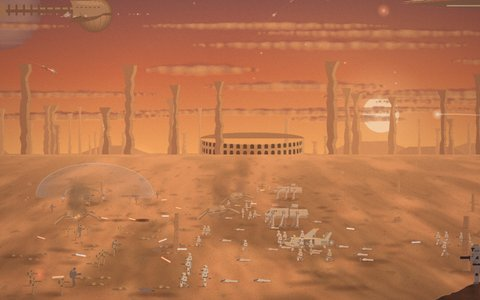
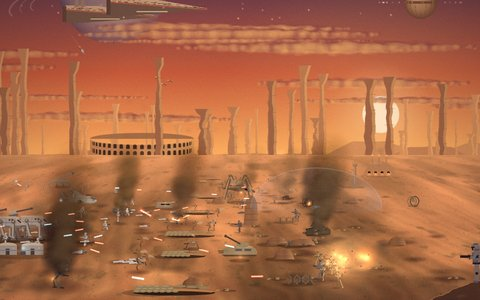
feat(saber-front): real Clone Wars battles, terrain, armour and facilities
Eight battles (Geonosis, Christophsis, Felucia, Umbara, Kamino, Ryloth,
Kashyyyk, the Invisible Hand's hangar) with their legions, Jedi and
commanders; hills, trenches and cover the troops use; posts, bunkers,
towers and batteries that fall and are rebuilt; AT-TEs, AATs, Saber
tanks, BARCs, spider droids, MTTs and SPHA-Ts; jump troopers, ARCs,
droidekas, MagnaGuards, Wookiees and Geonosians. Map labels no longer
overlap or run off the table; the ridge and hangar bakes no longer
need Path2D. Seed grid, map and thumbnail refreshed.

Claude-Session: https://claude.ai/code/session_01DAYW2L79kq4VRcM5v1YgzQ

diff --git a/src/engine/skins/worlds/saber-front/sim.ts b/src/engine/skins/worlds/saber-front/sim.ts
@@ -1,55 +1,59 @@
 /**
- * # Saber Front: a ground battle of the galactic civil war, seen from a ridge as a wide diorama.
+ * # Saber Front: the ground battles of the Clone Wars, each seen from a ridge as a wide diorama.
  *
- * On screen, at a glance: two lines of infantry trading coloured bolts across a strip of open
- * ground (the Grand Army's troopers in white armour with their legion's markings, firing blue; the
- * Confederacy's tan battle droids in ranks, firing red); six-legged assault walkers and spider
- * walkers laying their big guns; troop gunships with bubble turrets coming in low to drop squads;
- * starfighters dogfighting overhead; artillery arcing across; smoke and fire everywhere; wedge
- * cruisers and long-spined frigates hanging in the sky.
- * The camera: on a ridge above the field, the whole battle laid out below, the sky above it.
+ * On screen, at a glance: the Grand Army of the Republic's clone troopers (their legion's colours:
+ * the 501st's blue, the 212th's orange, the 327th's gold) behind sandbags, trenches and plasteel
+ * barricades, trading blue bolts with ranks of tan B1 battle droids, B2 super battle droids and BX
+ * commandos behind their tank traps; AT-TEs and homing spider droids duelling with their main guns;
+ * TX-130 saber tanks against AATs; AT-RTs and dwarf spider droids skirmishing; LAAT gunships with their
+ * bubble turrets dropping squads; C-9979 landers and MTTs unloading droids; hailfire droids firing
+ * rockets at the gunships; SPHA-Ts throwing their great red beams into the sky; ARC-170s and vulture
+ * droids dogfighting overhead; Venators against Munificents, Providences and core ships in the sky.
+ * The Republic's forward command post and bunker behind one line, the Separatist command tower and
+ * anti-air battery (and on Geonosis the droid foundry) behind the other; rises and rocks in between.
+ * The camera: on a ridge (or a catwalk aboard ship) above the field, the whole battle laid out below.
+ *
+ * The battles (one per seed, each with two hours, its own Jedi, legions, leaders, ships and machines):
+ * - The First Battle of Geonosis: the arena and the spire fields at sunset; core ships; Geonosian
+ *   warriors swarming from the spires; SPHA-Ts; Mace Windu, Yoda, Ki-Adi-Mundi; Count Dooku.
+ * - Christophsis: the crystal city by night; the Separatist shield; Anakin, Obi-Wan, Ahsoka; Ventress.
+ * - Felucia: the fungus plains; Aayla Secura and the 327th; crab droids.
+ * - Umbara: the dark jungle lit by tracer fire and glowing plants; the 501st.
+ * - Kamino: Tipoca City's platforms in the storm; trident drill ships rising from the sea.
+ * - Ryloth: the plain below Lessu; Cham Syndulla's Twi'lek fighters beside the clones.
+ * - Kashyyyk: the beach under the wroshyr trees; Yoda, Luminara, the 41st; Wookiee warriors.
+ * - Coruscant: aboard the Invisible Hand, in her hangar; Grievous and his MagnaGuards; the space
+ *   battle through the hangar's mouth, Coruscant below.
  *
  * Always happening (the floor):
- * - Infantry: both lines fire on cooldowns; bolts fly; men and droids fall (and lie where they
- *   fell for a while); squads move up and fall back with the front.
- * - Reinforcements: gunships bring squads (descend, doors open, troopers jump down, then a strafing
- *   run over the droid line); the Confederacy's landers set down columns of droids; a short line
- *   marches in from the edge when nothing can fly.
- * - Walkers advance with the front and duel with their main guns; a hurt one smokes, and falls.
- *   A carrier gunship sets a new one down; a new spider walks in from the rear.
- * - Artillery from both rear lines; starfighters in looping dogfights, one going down in flames;
- *   flights crossing; capital ships hanging in the sky.
- * - The tide: the front moves with the strength of the lines and a slow swell; at its limits one
- *   side breaks and falls back, then regroups. It never ends.
+ * - Infantry fight from cover (fewer hits; troopers take a knee behind low walls), on the rises,
+ *   and in the open when they move; men and droids fall and lie where they fell for a while.
+ * - Reinforcements: gunships bring squads and strafe the droid line; landers and MTTs bring
+ *   droids (through the blast doors aboard ship); a line marches in from the edge when nothing flies.
+ * - Walkers, tanks, scout walkers and war droids hold places behind their lines and fight; the
+ *   ones knocked out burn where they fell, and new ones come. Artillery from both rear lines;
+ *   a bunker's gun, an anti-air battery's flak; dogfights and flights overhead; capital ships.
+ * - The tide: the front moves with the strength of the lines; at its limits a side breaks and
+ *   falls back, then regroups. It never ends.
  *
- * The cast (each seed draws some):
- * - knights [hero] a knight with a light-blade in the line, turning bolts back on the droids;
- *   leads charges across the open ground.
- * - duelist [hero, rare] the Confederacy's blade-master comes out to meet the knight; they duel in
- *   no-man's-land, and the duelist withdraws (requires knights).
- * - rollers [threat] shield droids roll in, unfold behind their bubble shields and pour fire in.
- * - spiders [threat] a second spider walker; the droids' guns are heavier.
- * - shield [objective] a dome shield over the Confederacy's rear; commandos creep along the near
- *   ground to its generator, and it goes down (a barrage follows); a lander brings a new one.
- * - broadside [sky] a capital ship opens its broadside on the enemy ship or the far ground.
- * - descent [sky] a cruiser comes down through the clouds and launches fighters, then climbs.
- * - bombers [air] a bomber flight lays a line of bombs across the enemy ranks.
- * - storm [weather] the field's own weather: a sandstorm, a downpour, the storm breaking.
- * - flares [weather] illumination flares drift down over a night field and light it.
- * Quotas: 4–6 in all; 0–2 hero; 1–2 sky; 0–1 weather.
+ * The story (the director, in engagements): a build-up (the attacker brings in a drop or a
+ * landing), the clash, a climax drawn from what this battle has (a Jedi's charge; the shield
+ * generator blown by commandos; a Venator's descent; a bombing run; a wave of gunships; an AT-TE
+ * push; saber tanks spearheading; BARC speeders down the flank; jump troopers over the top; all guns
+ * on the command tower; a barrage; MTTs at the line; AATs advancing; a Geonosian swarm; trident
+ * ships; MagnaGuards; droidekas; rarely a duel (Grievous, Ventress or Dooku against a Jedi) or a
+ * capital ship (on Geonosis a core ship, to the SPHA-Ts) brought down), and an aftermath (the
+ * loser falls back, the winner plants its standard, the barricades are put back).
  *
- * Events, common to legendary (each a line said on the map):
- * - common: a squad dropped, a lander unloading, a shell landing, a fighter shot down, radio lines.
- * - uncommon: a walker falls, a gunship is shot down, a charge, a retreat and a regroup, a broadside.
- * - rare: the shield goes down, a cruiser's descent, a bomber run.
- * - legendary: the duel in no-man's-land.
+ * The cast (each seed draws some): the Jedi [hero], the duelist [hero, legendary], droidekas
+ * [threat], extra spider droids [threat], the shield generator [objective], broadsides and a
+ * Venator's descent [sky], bombing runs [air], the field's storm and illumination flares [weather].
  *
- * What keeps it going: every loss is replaced, from the drop ships and the landers and from the
- * edge; the front swings with the strength of the lines, and whoever is pushed back regroups.
- * What changes with the seed: the battlefield (arena plains, crystal city, night jungle, ocean
- * platform, walled canyon) and its hour; the legion and its colour; which side holds the left;
- * the cast; the names of every squad, walker, gunship and ship.
- * A touch: marks the ground for the cruiser's guns: a strike comes down where you click.
+ * What keeps it going: every loss is replaced; facilities that fall are rebuilt in time; the
+ * marks stay (scorches, wrecks, standards, ruins, a fallen capital ship's hulk on the horizon).
+ * What changes with the seed: the battle and its hour, the legion, which side holds the left, the
+ * lay of the ground (rises, trenches, rocks), the works, the cast, the machines, the names.
+ * A touch: marks the ground for a Venator's guns; a strike comes down where you click.
  * Phone: the same battle, smaller: fewer men a side, one walker each, two dogfights.
  */
 import { createBus } from '../../../sim/bus';

diff --git a/src/engine/skins/worlds/saber-front/scene.ts b/src/engine/skins/worlds/saber-front/scene.ts
@@ -1153,15 +1153,20 @@ export function bakeRidge(world: SaberWorld, E: Env, side: number, seed: number)
   const L = E.L;
   const rock = mix(mix(L.ground, L.ink, 0.62), '#1a1614', 0.3);
   const litC = mix(mix(L.ground2, L.sun, 0.3), L.ink, 0.25 + L.night * 0.4);
-  const path = new Path2D();
-  path.moveTo(-10, GH + 10);
-  for (let x = -10; x <= GW + 10; x += 4) path.lineTo(x, ridgeTop(world, x, side, seed));
-  path.lineTo(GW + 10, GH + 10);
-  path.closePath();
+  // Traced afresh for each fill and clip rather than kept as a Path2D (absent from test canvases).
+  const outline = () => {
+    g.beginPath();
+    g.moveTo(-10, GH + 10);
+    for (let x = -10; x <= GW + 10; x += 4) g.lineTo(x, ridgeTop(world, x, side, seed));
+    g.lineTo(GW + 10, GH + 10);
+    g.closePath();
+  };
   g.fillStyle = rock;
-  g.fill(path);
+  outline();
+  g.fill();
   g.save();
-  g.clip(path);
+  outline();
+  g.clip();
   // Texture: the rock's grain, ledges and cracks; light on the faces toward it.
   const top = Math.min(...Array.from({ length: 40 }, (_, i) => ridgeTop(world, (i / 39) * GW, side, seed)));
   for (let y = top; y < GH; y += 3) {
@@ -1194,7 +1199,8 @@ export function bakeRidge(world: SaberWorld, E: Env, side: number, seed: number)
   if (world.style === 'hangar') {
     // Deck plating on the catwalk's face and a railing along its edge.
     g.save();
-    g.clip(path);
+    outline();
+    g.clip();
     g.fillStyle = mix('#2a2e36', L.ink, 0.3);
     g.fillRect(0, 0, GW, GH);
     g.strokeStyle = hexA('#000000', 0.5);
@@ -1263,20 +1269,24 @@ export function bakeHangarWalls(world: SaberWorld, E: Env): HTMLCanvasElement {
     const mx = side < 0 ? mx0 : mx1;
     const ex = side < 0 ? -GW * 0.12 : GW * 1.12;
     const sx = side < 0 ? 0 : GW;
-    const wall = new Path2D();
-    wall.moveTo(sx, 0);
-    wall.lineTo(mx, my0);
-    wall.lineTo(mx, HY);
-    wall.lineTo(ex, GH);
-    wall.lineTo(sx, GH);
-    wall.closePath();
+    const wall = () => {
+      g.beginPath();
+      g.moveTo(sx, 0);
+      g.lineTo(mx, my0);
+      g.lineTo(mx, HY);
+      g.lineTo(ex, GH);
+      g.lineTo(sx, GH);
+      g.closePath();
+    };
     const wg = g.createLinearGradient(sx, 0, mx, 0);
     wg.addColorStop(0, mix(metal, '#000000', 0.35));
     wg.addColorStop(1, mix(metal, L.sun, 0.06));
     g.fillStyle = wg;
-    g.fill(wall);
+    wall();
+    g.fill();
     g.save();
-    g.clip(wall);
+    wall();
+    g.clip();
     // Ribs running back to the mouth, and the lines of the panels converging on it.
     g.strokeStyle = hexA('#000000', 0.5);
     g.lineWidth = 1.2;

diff --git a/src/engine/skins/worlds/saber-front/holo.ts b/src/engine/skins/worlds/saber-front/holo.ts
@@ -399,6 +399,21 @@ export function createHolo(host: SkinHost, world: SaberWorld, o: { labels: boole
       }
       ctx.stroke();
     }
+    // Plotted names never sit on one another: each tries its spot, then just below and above, else
+    // stays unlabelled this frame.
+    const placed: number[][] = [];
+    const label = (text: string, x: number, y: number) => {
+      const w = ctx.measureText(text).width + 6;
+      const lh = 11 + Z * 2;
+      x = Math.min(Math.max(x, box.x + w / 2 + 2), box.x + box.w - w / 2 - 2);
+      for (const dy of [0, lh + 2, -2 * lh - 4]) {
+        const r = [x - w / 2, y + dy - lh, w, lh + 3];
+        if (placed.some((q) => r[0] < q[0] + q[2] && q[0] < r[0] + r[2] && r[1] < q[1] + q[3] && q[1] < r[1] + r[3])) continue;
+        placed.push(r);
+        fillCrisp(ctx, text, x, y + dy);
+        return;
+      }
+    };
     ctx.font = SANS(Math.round(8 + Z * 2), 700);
     ctx.textAlign = 'center';
     for (const fc of world.terrain.facilities) {
@@ -424,7 +439,7 @@ export function createHolo(host: SkinHost, world: SaberWorld, o: { labels: boole
         ctx.stroke();
       }
       ctx.fillStyle = hexA(col, ruin ? 0.4 : 0.8);
-      fillCrisp(ctx, fc.name.replace(/^THE /, ''), x, y + r + 12);
+      label(fc.name.replace(/^THE /, ''), x, y + r + 12);
     }
     // The war machines.
     for (const v of world.vehicles) {
@@ -500,7 +515,7 @@ export function createHolo(host: SkinHost, world: SaberWorld, o: { labels: boole
       ctx.font = SANS(Math.round(8 + Z * 2), 700);
       ctx.textAlign = 'center';
       ctx.fillStyle = hexA(col, 0.75);
-      fillCrisp(ctx, wk.name, x, y + 18 * Z);
+      label(wk.name, x, y + 18 * Z);
       ctx.strokeStyle = hexA(col, 0.18);
       ctx.lineWidth = 1;
       ctx.setLineDash([2, 4]);

diff --git a/src/engine/skins/worlds/index.ts b/src/engine/skins/worlds/index.ts
@@ -101,8 +101,8 @@ export const saberFrontSkin = lazySkin(
     id: 'saber-front',
     label: 'Saber Front',
     description:
-      'A ground battle of a galactic civil war seen from a ridge: troopers in white armour and ranks of battle droids trading bolts, walkers duelling, gunships dropping squads, knights with light-blades turning bolts and leading charges, dogfights overhead, and capital ships hanging in the sky.',
-    tags: ['world', 'war', 'sci-fi', 'battle'],
+      'The ground battles of the Clone Wars seen from a ridge, from Geonosis to Kashyyyk and aboard the Invisible Hand: clone troopers and battle droids trading bolts from cover, AT-TEs and spider droids, saber tanks and AATs, gunships dropping squads, Jedi leading charges, dogfights and Venators overhead.',
+    tags: ['world', 'war', 'sci-fi', 'battle', 'star-wars'],
     crisp: true,
     schema: SABER_FRONT_SCHEMA,
     defaults: { palette: { from: '#58b8ff' }, intensity: 0.85 },
